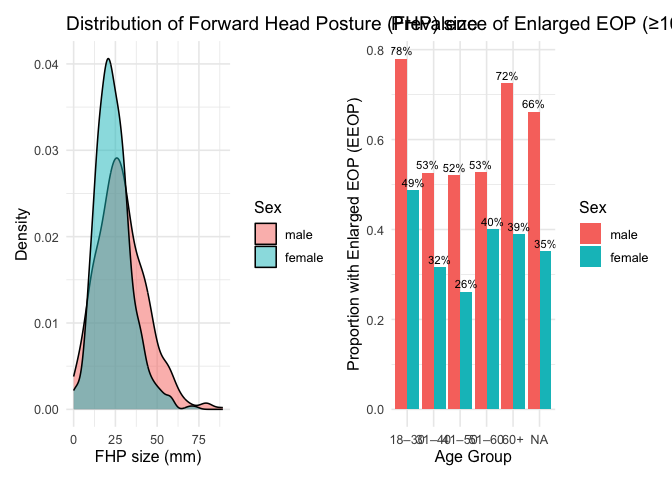
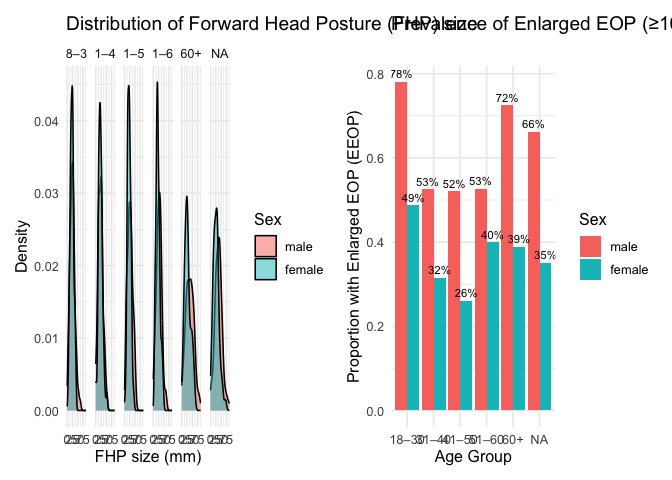
results

diff --git a/p8105_mtp_yz5248.md b/p8105_mtp_yz5248.md
@@ -159,6 +159,7 @@ plot_df = raw_df |>
 new_Figure3 = plot_df |>
   ggplot(aes(x = fhp_size_mm, fill = sex)) +
   geom_density(alpha = 0.5) +
+  facet_wrap(~ age_group, nrow = 1) +
   labs(
     title = "Distribution of Forward Head Posture (FHP) size",
     x = "FHP size (mm)",
@@ -239,3 +240,137 @@ fhp_eop_plot
     ## `geom_smooth()` using formula = 'y ~ x'
 
 ![](p8105_mtp_yz5248_files/figure-gfm/unnamed-chunk-6-1.png)<!-- -->
+
+# Results and Discussion
+
+``` r
+n_total = nrow(raw_df)
+n_total
+```
+
+    ## [1] 1221
+
+``` r
+n_by_group = raw_df |>
+  count(age_group, sex) |>
+  arrange(age_group, sex)
+n_by_group
+```
+
+    ## # A tibble: 12 × 3
+    ##    age_group sex        n
+    ##    <ord>     <fct>  <int>
+    ##  1 18–30     male     152
+    ##  2 18–30     female   151
+    ##  3 31–40     male     102
+    ##  4 31–40     female   102
+    ##  5 41–50     male     101
+    ##  6 41–50     female   106
+    ##  7 51–60     male     101
+    ##  8 51–60     female    99
+    ##  9 60+       male      50
+    ## 10 60+       female    48
+    ## 11 <NA>      male     101
+    ## 12 <NA>      female   108
+
+``` r
+fhp_by_sex = raw_df |>
+  group_by(sex) |>
+  summarise(
+    n = n(),
+    mean_fhp = mean(fhp_size_mm, na.rm = TRUE),
+    sd_fhp = sd(fhp_size_mm, na.rm = TRUE),
+    median_fhp = median(fhp_size_mm, na.rm = TRUE)
+  )
+fhp_by_sex |>
+  knitr::kable(caption = "FHP summary by sex")
+```
+
+| sex    |   n | mean_fhp |   sd_fhp | median_fhp |
+|:-------|----:|---------:|---------:|-----------:|
+| male   | 607 | 28.51234 | 14.66670 |       27.2 |
+| female | 614 | 23.72580 | 10.61789 |       22.6 |
+
+FHP summary by sex
+
+``` r
+raw_df = raw_df |>
+  mutate(eeop = if_else(!is.na(eop_size_mm) & eop_size_mm >= 10, 1, 0))
+
+eeop_overall <- raw_df |>
+  summarise(
+    n = n(),
+    n_eeop = sum(eeop, na.rm = TRUE),
+    prevalence = mean(eeop, na.rm = TRUE)
+  )
+eeop_overall
+```
+
+    ## # A tibble: 1 × 3
+    ##       n n_eeop prevalence
+    ##   <int>  <dbl>      <dbl>
+    ## 1  1221    393      0.322
+
+``` r
+eeop_by_group = raw_df |>
+  group_by(age_group, sex) |>
+  summarise(
+    n = n(),
+    n_eeop = sum(eeop, na.rm = TRUE),
+    prevalence = mean(eeop, na.rm = TRUE)
+  ) |>
+  arrange(age_group, sex) |>
+  knitr::kable(caption = "EEOP prevalence (>=10 mm) by age_group and sex")
+```
+
+    ## `summarise()` has grouped output by 'age_group'. You can override using the
+    ## `.groups` argument.
+
+``` r
+eeop_by_group
+```
+
+| age_group | sex    |   n | n_eeop | prevalence |
+|:----------|:-------|----:|-------:|-----------:|
+| 18–30     | male   | 152 |    110 |  0.7236842 |
+| 18–30     | female | 151 |     39 |  0.2582781 |
+| 31–40     | male   | 102 |     41 |  0.4019608 |
+| 31–40     | female | 102 |     12 |  0.1176471 |
+| 41–50     | male   | 101 |     38 |  0.3762376 |
+| 41–50     | female | 106 |      6 |  0.0566038 |
+| 51–60     | male   | 101 |     39 |  0.3861386 |
+| 51–60     | female |  99 |     12 |  0.1212121 |
+| 60+       | male   |  50 |     29 |  0.5800000 |
+| 60+       | female |  48 |      7 |  0.1458333 |
+| NA        | male   | 101 |     47 |  0.4653465 |
+| NA        | female | 108 |     13 |  0.1203704 |
+
+EEOP prevalence (\>=10 mm) by age_group and sex
+
+``` r
+f_hp_gt40_by_age = raw_df |>
+  mutate(fhp_gt40 = if_else(!is.na(fhp_size_mm) & fhp_size_mm > 40, 1L, 0L)) |>
+  group_by(age_group) |>
+  summarise(
+    n = n(),
+    n_gt40 = sum(fhp_gt40, na.rm = TRUE),
+    prop_gt40 = mean(fhp_gt40, na.rm = TRUE)
+  ) |>
+  arrange(age_group) |>
+  knitr::kable(
+    caption = "Proportion with FHP > 40 mm by age_group",
+    digits = 3
+  )
+f_hp_gt40_by_age
+```
+
+| age_group |   n | n_gt40 | prop_gt40 |
+|:----------|----:|-------:|----------:|
+| 18–30     | 303 |     20 |     0.066 |
+| 31–40     | 204 |     12 |     0.059 |
+| 41–50     | 207 |     18 |     0.087 |
+| 51–60     | 200 |     22 |     0.110 |
+| 60+       |  98 |     35 |     0.357 |
+| NA        | 209 |     65 |     0.311 |
+
+Proportion with FHP \> 40 mm by age_group
